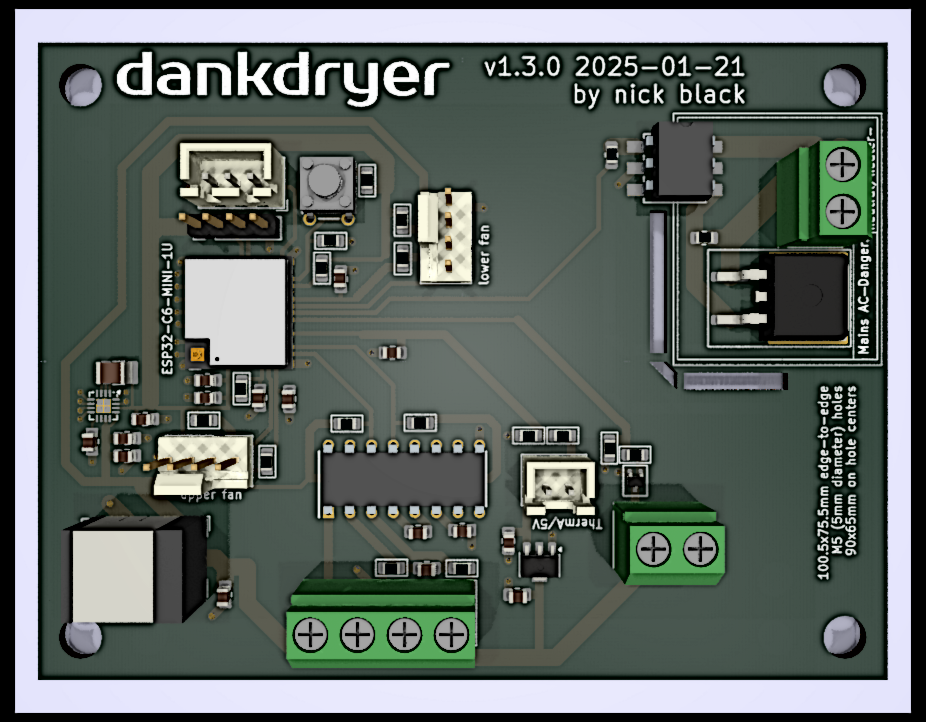
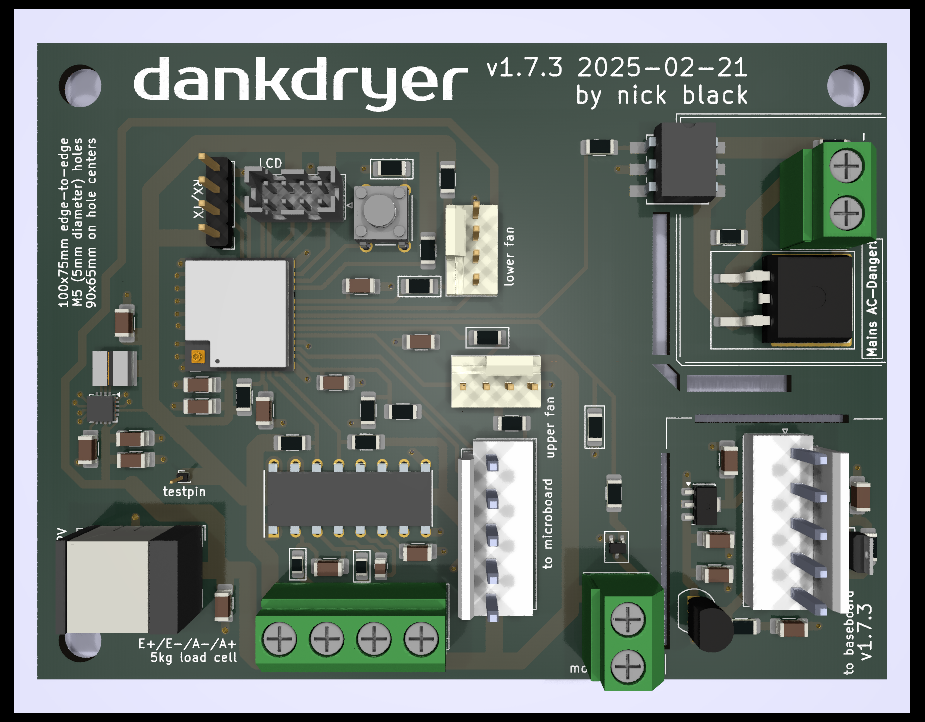
update BOM/PCB image

diff --git a/README.md b/README.md
@@ -93,38 +93,51 @@ be able to use a cheapter motor.
 
 Generated via Kicad:
 
-|Id |Designator |Footprint                         |Quantity|Designation|
-|---|-----------|----------------------------------|--------|-----------
-|  1|OC1|MOC306XS_LTO|1|MOC3063S|
-|  2|R4|R_0805_2012Metric_Pad1.20x1.40mm_HandSolder|1|360|
-|  3|R11;R10|R_0805_2012Metric_Pad1.15x1.40mm_HandSolder|2|47|
-|  4|R2|R_0805_2012Metric_Pad1.20x1.40mm_HandSolder|1|620|
-|  5|U2|WSON-8-1EP_2x2mm_P0.5mm_EP0.9x1.6mm_ThermalVias|1|TPS62162DSG|
-|  6|R5;R1|R_0805_2012Metric_Pad1.15x1.40mm_HandSolder|2|680|
-|  7|U3|SOT-89-3|1|HT7550-1-SOT89|
-|  8|J8|TerminalBlock_bornier-2_P5.08mm|1|motor|
-|  9|J2|FanPinHeader_1x04_P2.54mm_Vertical|1|upper fan|
-| 10|C6;C4;C2;C5;C1|C_0805_2012Metric_Pad1.18x1.45mm_HandSolder|5|10u|
-| 11|J5|TerminalBlock_bornier-4_P5.08mm|1|Screw_Terminal_01x04|
-| 12|C9;C3;C8|C_0805_2012Metric_Pad1.18x1.45mm_HandSolder|3|0.1u|
-| 13|R6;R8|R_0805_2012Metric_Pad1.15x1.40mm_HandSolder|2|4.7k|
-| 14|J4|TerminalBlock_bornier-2_P5.08mm|1|heater|
-| 15|U6|XCVR_ESP32-C6-MINI-1U-H4|1|ESP32-C6-MINI-1U-H4|
-| 16|J3|FanPinHeader_1x04_P2.54mm_Vertical|1|lower fan|
-| 17|R13|R_0805_2012Metric_Pad1.15x1.40mm_HandSolder|1|10k|
-| 18|R12|R_0805_2012Metric_Pad1.15x1.40mm_HandSolder|1|330|
-| 19|R3|R_0805_2012Metric_Pad1.20x1.40mm_HandSolder|1|100|
-| 20|C10|C_0805_2012Metric_Pad1.18x1.45mm_HandSolder|1|1u|
-| 21|J1|BarrelJack_Wuerth_6941xx301002|1|Barreljack|
-| 22|U4|SOI16_NAU7802SGI_NUV|1|NAU7802SGI|
-| 23|R14|R_0805_2012Metric_Pad1.15x1.40mm_HandSolder|1|3.3k|
-| 24|J7|TerminalBlock_bornier-4_P5.08mm|1|5kg load cell|
-| 25|Q2|SOT-323_SC-70|1|SSM3K127TU|
-| 26|Q1|TO-252-2|1|BT136S-800E|
-| 27|J9|PinHeader_1x04_P2.54mm_Vertical|1|Conn_01x04|
-| 28|U5|MSOP10_MC_MCH|1|EMC2302|
-| 29|R7|R_0805_2012Metric_Pad1.15x1.40mm_HandSolder|1|1.62k|
-| 30|L1|L_0805_2012Metric_Pad1.05x1.20mm_HandSolder|1|2.2u|
+|"Designator"|"Footprint"|"Quantity"|"Designation"|
+|------------|-----------|----------|-------------|
+|U1|TPS62132|1|TPS62132|
+|R4|R_1206_3216Metric_Pad1.30x1.75mm_HandSolder|1|360|
+|R2|R_1206_3216Metric_Pad1.30x1.75mm_HandSolder|1|620|
+|R6,R8|R_1206_3216Metric_Pad1.30x1.75mm_HandSolder|2|4.7k|
+|C15,C16|C_1206_3216Metric_Pad1.33x1.80mm_HandSolder|2|1n|
+|SW2|SW_B3F-1000_OMR|1|bootmode|
+|R13,R20,R15|R_1206_3216Metric_Pad1.30x1.75mm_HandSolder|3|10k|
+|R5,R1,R22|R_1206_3216Metric_Pad1.30x1.75mm_HandSolder|3|680|
+|C7,C3,C9,C8,C20|C_1206_3216Metric_Pad1.33x1.80mm_HandSolder|5|0.1u|
+|U2|TRANS_AH3712-P-B_DIO|1|AH3712Q-P-B|
+|C6,C13|C_1206_3216Metric_Pad1.33x1.80mm_HandSolder|2|22u|
+|C10,C17|C_1206_3216Metric_Pad1.33x1.80mm_HandSolder|2|1u|
+|IC1|DIP792W51P254L1905H53Q16N|1|NAU7802KGI|
+|J10|FanPinHeader_1x04_P2.54mm_Vertical|1|lower fan|
+|C19,C2,C1,C14|C_1206_3216Metric_Pad1.33x1.80mm_HandSolder|4|10u|
+|J2|JST_VH_B5P-VH-B_1x05_P3.96mm_Vertical|1|to microboard|
+|J4|TerminalBlock_bornier-2_P5.08mm|1|heater|
+|J8|TerminalBlock_bornier-2_P5.08mm|1|motor|
+|J7|FanPinHeader_1x04_P2.54mm_Vertical|1|upper fan|
+|R9,R19|R_1206_3216Metric_Pad1.30x1.75mm|2|15k|
+|U6|XCVR_ESP32-C6-MINI-1U-H4|1|ESP32-C6-MINI-1U|
+|J11|PinHeader_1x01_P1.00mm_Vertical|1|testpin|
+|R16|R_1206_3216Metric_Pad1.30x1.75mm_HandSolder|1|412|
+|J13|BarrelJack_Wuerth_6941xx301002|1|barreljack|
+|R7|R_1206_3216Metric_Pad1.30x1.75mm_HandSolder|1|1.62k|
+|C4,C18|C_1206_3216Metric_Pad1.33x1.80mm_HandSolder|2|.01u|
+|J5|TerminalBlock_bornier-4_P5.08mm|1|5kg load cell|
+|R10,R11|R_0805_2012Metric_Pad1.15x1.40mm_HandSolder|2|47|
+|U5|TO-92_Inline|1|LM35-LP|
+|R3|R_1206_3216Metric_Pad1.30x1.75mm_HandSolder|1|100|
+|L1|IND_IFSC_1515AH_VIS|1|2.2u|
+|R14|R_1206_3216Metric_Pad1.30x1.75mm_HandSolder|1|3.3k|
+|OC1|MOC306XS_LTO|1|MOC3063S|
+|C12|C_1206_3216Metric_Pad1.33x1.80mm_HandSolder|1|3.3n|
+|C11|C_0805_2012Metric_Pad1.18x1.45mm_HandSolder|1|470p|
+|R21|R_1206_3216Metric_Pad1.30x1.75mm_HandSolder|1|68|
+|J9|PinHeader_1x04_P2.54mm_Vertical|1|UART|
+|J6|JST_PHD_B8B-PHDSS_2x04_P2.00mm_Vertical|1|LCD|
+|J3|JST_VH_B5P-VH-B_1x05_P3.96mm_Vertical|1|to baseboard|
+|Q3|TO-263-2|1|T1210-800G|
+|Q2|SOT-323_SC-70|1|SSM3K127TU|
+|R12|R_1206_3216Metric_Pad1.30x1.75mm_HandSolder|1|330|
+|U3|SOT-89-3|1|HT7550|
 
 # MQTT
 
